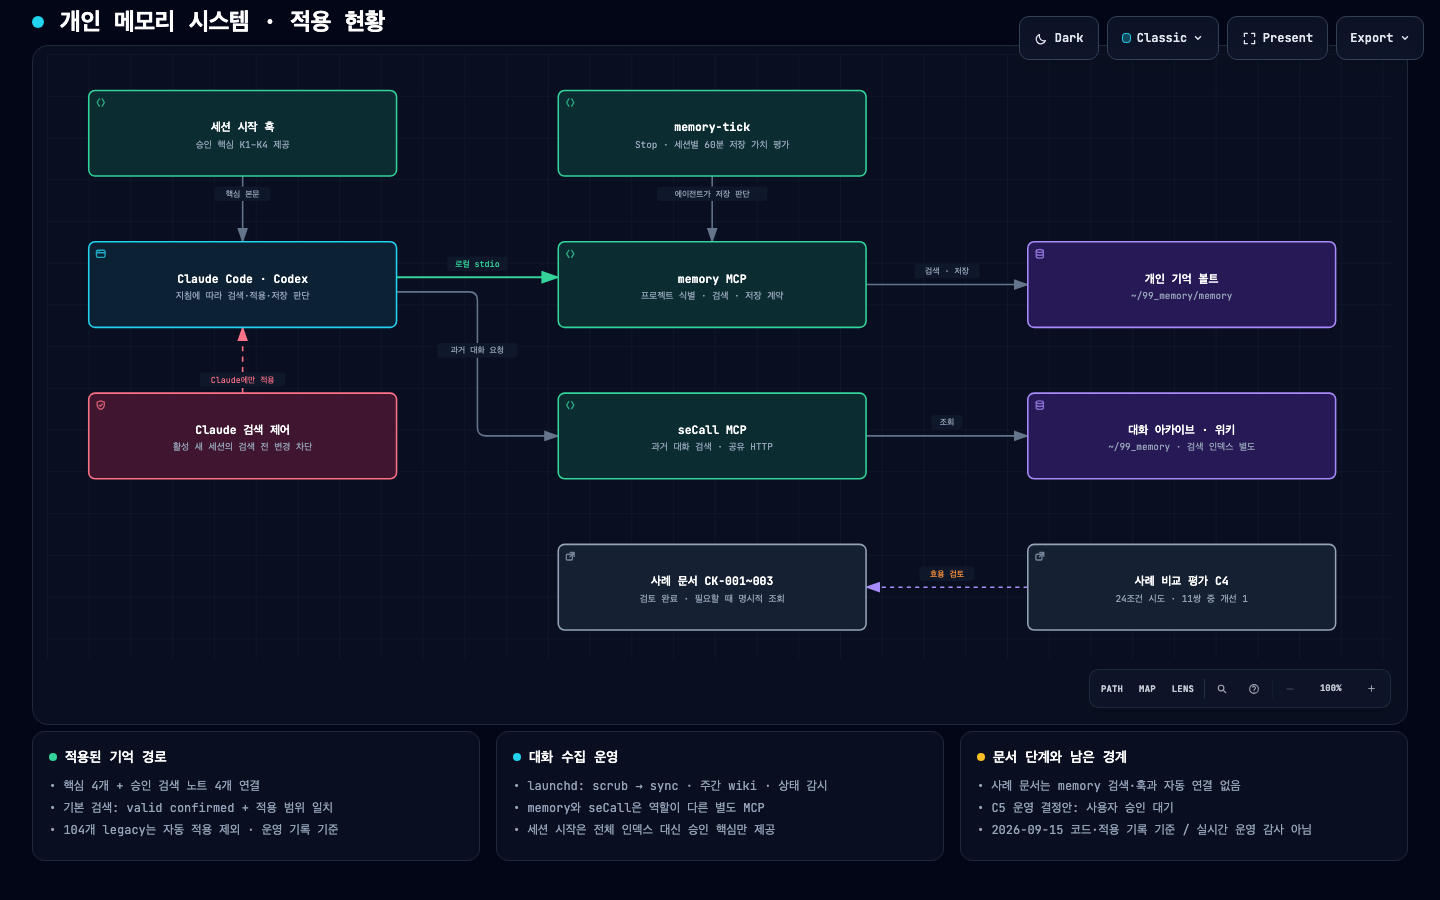
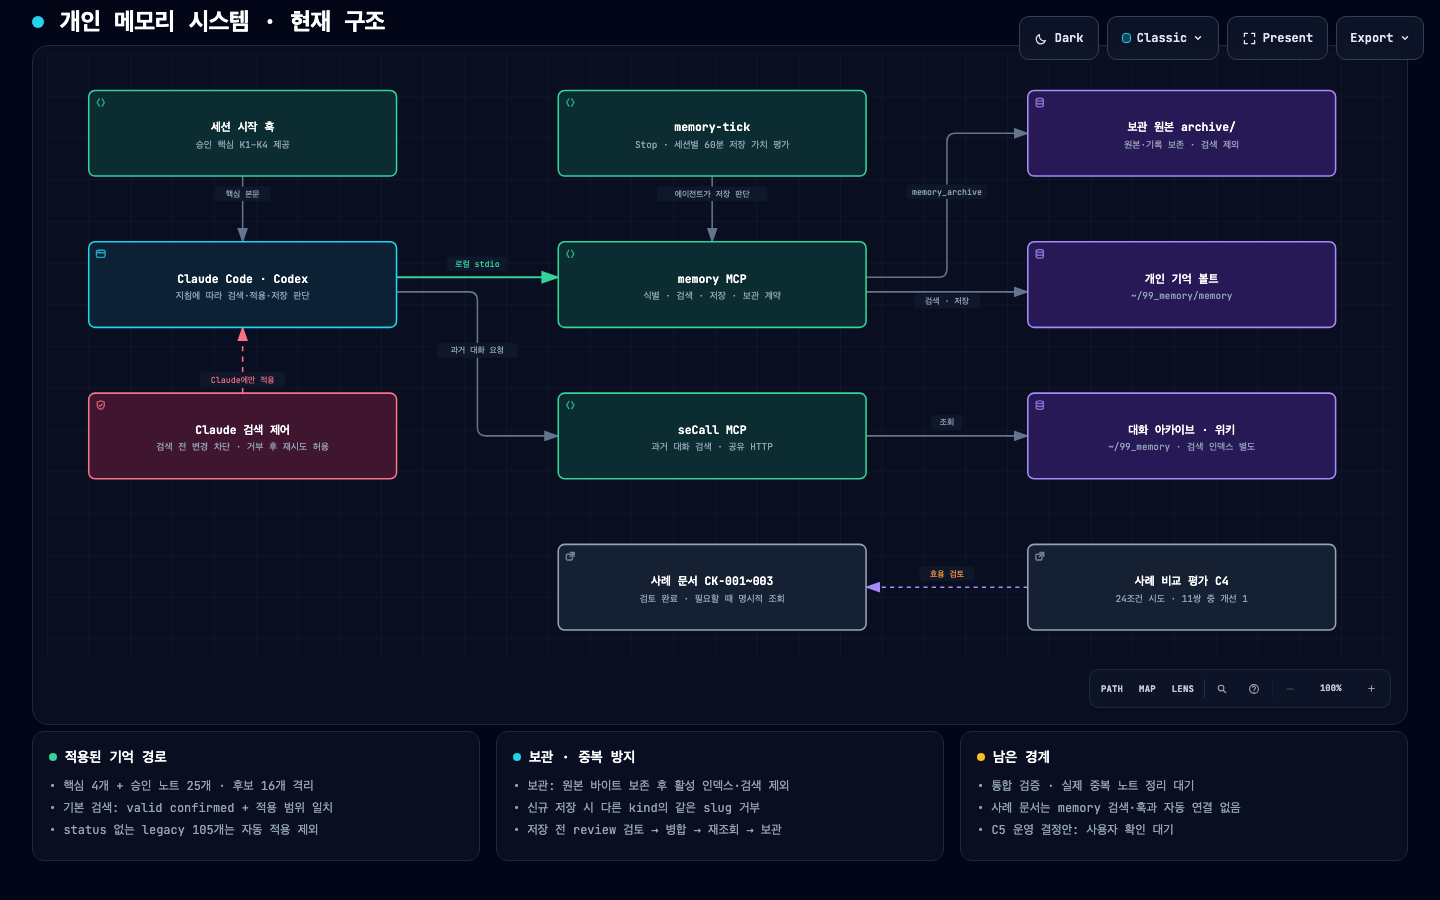
docs: 메모리 시스템 구성도를 보관·중복 방지 반영해 갱신
archive/ 노드와 memory_archive 연결, 검색 훅 복구, T1–T3 카드, 2026-09-28 볼트
집계(146개: confirmed 25·candidate 16·legacy 105)를 반영하고 검증 영수증을 갱신한다.

diff --git a/docs/diagrams/memory-system.html b/docs/diagrams/memory-system.html
@@ -4,7 +4,7 @@
   <meta charset="UTF-8">
   <meta name="viewport" content="width=device-width, initial-scale=1.0">
   <meta name="generator" content="archify 2.17.0-dev.1">
-  <title>개인 메모리 시스템 · 적용 현황 Diagram</title>
+  <title>개인 메모리 시스템 · 현재 구조 Diagram</title>
   <script>
     // Resolve the theme before first paint so light-preference users don't
     // see a dark flash. The toolbar script below re-applies with UI state.
@@ -4955,7 +4955,7 @@
            data-preset-badge-blueprint="BLUEPRINT / REV 01"
            data-preset-badge-editorial="EDITORIAL / FIELD NOTE">
         <div class="pulse-dot"></div>
-        <h1>개인 메모리 시스템 · 적용 현황</h1>
+        <h1>개인 메모리 시스템 · 현재 구조</h1>
       </div>
     </div>
 
@@ -5005,7 +5005,7 @@
     <div class="diagram-container" data-detail-level="read"
          data-preset-badge-editorial-plate="ARCHIFY / PLATE 04">
       <svg viewBox="0 0 1290 580" role="img" lang="en" aria-labelledby="archify-diagram-title archify-diagram-description" data-preset="classic" data-quality-profile="showcase">
-        <title id="archify-diagram-title">개인 메모리 시스템 · 적용 현황</title>
+        <title id="archify-diagram-title">개인 메모리 시스템 · 현재 구조</title>
         <desc id="archify-diagram-description">An architecture diagram generated by Archify.</desc>
         <!-- Definitions -->
         <defs>
@@ -5035,12 +5035,13 @@
         <!-- Connection paths (before components for correct z-order) -->
         <path data-edge-from="core" data-edge-to="agent" data-edge-label="핵심 본문" data-edge-key="0" data-composition-points="187.5,117;187.5,180" d="M 187.5 117 L 187.5 180" class="a-default" stroke-width="1.5" marker-end="url(#arrowhead)"/>
         <path data-edge-from="agent" data-edge-to="memory" data-edge-label="로컬 stdio" data-edge-key="1" data-composition-points="335,214;490,214" d="M 335 214 L 490 214" class="a-emphasis" stroke-width="1.8" marker-end="url(#arrowhead-emphasis)"/>
-        <path data-edge-from="memory" data-edge-to="vault" data-edge-label="검색 · 저장" data-edge-key="2" data-composition-points="785,221;940,221" d="M 785 221 L 940 221" class="a-default" stroke-width="1.5" marker-end="url(#arrowhead)"/>
-        <path data-edge-from="tick" data-edge-to="memory" data-edge-label="에이전트가 저장 판단" data-edge-key="3" data-composition-points="637.5,117;637.5,180" d="M 637.5 117 L 637.5 180" class="a-default" stroke-width="1.5" marker-end="url(#arrowhead)"/>
-        <path data-edge-from="guard" data-edge-to="agent" data-edge-label="Claude에만 적용" data-edge-key="4" data-composition-points="187.5,325;187.5,262" d="M 187.5 325 L 187.5 262" class="a-security" stroke-width="1.5" marker-end="url(#arrowhead-security)"/>
-        <path data-edge-from="agent" data-edge-to="secall" data-edge-label="과거 대화 요청" data-edge-key="5" data-composition-points="335,228;412.5,228;412.5,366;490,366" d="M 335 228 L 404.5 228 Q 412.5 228 412.5 236 L 412.5 358 Q 412.5 366 420.5 366 L 490 366" class="a-default" stroke-width="1.5" marker-end="url(#arrowhead)"/>
-        <path data-edge-from="secall" data-edge-to="history" data-edge-label="조회" data-edge-key="6" data-composition-points="785,366;940,366" d="M 785 366 L 940 366" class="a-default" stroke-width="1.5" marker-end="url(#arrowhead)"/>
-        <path data-edge-from="evaluation" data-edge-to="cases" data-edge-label="효용 검토" data-edge-key="7" data-composition-points="940,511;785,511" d="M 940 511 L 785 511" class="a-dashed" stroke-width="1.5" marker-end="url(#arrowhead-dashed)"/>
+        <path data-edge-from="memory" data-edge-to="vault" data-edge-label="검색 · 저장" data-edge-key="2" data-composition-points="785,228;940,228" d="M 785 228 L 940 228" class="a-default" stroke-width="1.5" marker-end="url(#arrowhead)"/>
+        <path data-edge-from="memory" data-edge-to="archive" data-edge-label="memory_archive" data-edge-key="3" data-composition-points="785,214;862.5,214;862.5,76;940,76" d="M 785 214 L 854.5 214 Q 862.5 214 862.5 206 L 862.5 84 Q 862.5 76 870.5 76 L 940 76" class="a-default" stroke-width="1.5" marker-end="url(#arrowhead)"/>
+        <path data-edge-from="tick" data-edge-to="memory" data-edge-label="에이전트가 저장 판단" data-edge-key="4" data-composition-points="637.5,117;637.5,180" d="M 637.5 117 L 637.5 180" class="a-default" stroke-width="1.5" marker-end="url(#arrowhead)"/>
+        <path data-edge-from="guard" data-edge-to="agent" data-edge-label="Claude에만 적용" data-edge-key="5" data-composition-points="187.5,325;187.5,262" d="M 187.5 325 L 187.5 262" class="a-security" stroke-width="1.5" marker-end="url(#arrowhead-security)"/>
+        <path data-edge-from="agent" data-edge-to="secall" data-edge-label="과거 대화 요청" data-edge-key="6" data-composition-points="335,228;412.5,228;412.5,366;490,366" d="M 335 228 L 404.5 228 Q 412.5 228 412.5 236 L 412.5 358 Q 412.5 366 420.5 366 L 490 366" class="a-default" stroke-width="1.5" marker-end="url(#arrowhead)"/>
+        <path data-edge-from="secall" data-edge-to="history" data-edge-label="조회" data-edge-key="7" data-composition-points="785,366;940,366" d="M 785 366 L 940 366" class="a-default" stroke-width="1.5" marker-end="url(#arrowhead)"/>
+        <path data-edge-from="evaluation" data-edge-to="cases" data-edge-label="효용 검토" data-edge-key="8" data-composition-points="940,511;785,511" d="M 940 511 L 785 511" class="a-dashed" stroke-width="1.5" marker-end="url(#arrowhead-dashed)"/>
 
         <!-- Components -->
         <g id="node-core" data-node-id="core" data-node-label="세션 시작 훅" tabindex="0" role="button" aria-label="Focus 세션 시작 훅, 승인 핵심 K1–K4 제공, Architecture component" aria-pressed="false" data-node-kind="backend" data-node-sublabel="승인 핵심 K1–K4 제공" data-node-context="Architecture component">
@@ -5068,8 +5069,8 @@
         <text data-detail="context" x="187.5" y="235" class="t-muted" font-size="9" text-anchor="middle">지침에 따라 검색·적용·저장 판단</text>
         </g>
 
-        <g id="node-guard" data-node-id="guard" data-node-label="Claude 검색 제어" tabindex="0" role="button" aria-label="Focus Claude 검색 제어, 활성 새 세션의 검색 전 변경 차단, Architecture component" aria-pressed="false" data-node-kind="security" data-node-sublabel="활성 새 세션의 검색 전 변경 차단" data-node-context="Architecture component">
-          <title>Claude 검색 제어 · 활성 새 세션의 검색 전 변경 차단 · Architecture component</title>
+        <g id="node-guard" data-node-id="guard" data-node-label="Claude 검색 제어" tabindex="0" role="button" aria-label="Focus Claude 검색 제어, 검색 전 변경 차단 · 거부 후 재시도 허용, Architecture component" aria-pressed="false" data-node-kind="security" data-node-sublabel="검색 전 변경 차단 · 거부 후 재시도 허용" data-node-context="Architecture component">
+          <title>Claude 검색 제어 · 검색 전 변경 차단 · 거부 후 재시도 허용 · Architecture component</title>
           <rect x="40" y="325" width="295" height="82" rx="6" class="c-mask"/>
           <rect x="40" y="325" width="295" height="82" rx="6" class="c-security" stroke-width="1.5"/>
           <g aria-hidden="true" data-semantic-sigil="security" class="semantic-sigil s-security" transform="translate(46 331) scale(0.6875)">
@@ -5077,7 +5078,7 @@
             <path d="m5.8 8 1.5 1.5 3-3"/>
           </g>
           <text data-node-label="" data-detail-anchor="" x="187.5" y="364" class="t-primary" font-size="11" font-weight="600" text-anchor="middle">Claude 검색 제어</text>
-        <text data-detail="context" x="187.5" y="380" class="t-muted" font-size="9" text-anchor="middle">활성 새 세션의 검색 전 변경 차단</text>
+        <text data-detail="context" x="187.5" y="380" class="t-muted" font-size="9" text-anchor="middle">검색 전 변경 차단 · 거부 후 재시도 허용</text>
         </g>
 
         <g id="node-tick" data-node-id="tick" data-node-label="memory-tick" tabindex="0" role="button" aria-label="Focus memory-tick, Stop · 세션별 60분 저장 가치 평가, Architecture component" aria-pressed="false" data-node-kind="backend" data-node-sublabel="Stop · 세션별 60분 저장 가치 평가" data-node-context="Architecture component">
@@ -5091,15 +5092,15 @@
         <text data-detail="context" x="637.5" y="90" class="t-muted" font-size="9" text-anchor="middle">Stop · 세션별 60분 저장 가치 평가</text>
         </g>
 
-        <g id="node-memory" data-node-id="memory" data-node-label="memory MCP" tabindex="0" role="button" aria-label="Focus memory MCP, 프로젝트 식별 · 검색 · 저장 계약, Architecture component" aria-pressed="false" data-node-kind="backend" data-node-sublabel="프로젝트 식별 · 검색 · 저장 계약" data-node-context="Architecture component">
-          <title>memory MCP · 프로젝트 식별 · 검색 · 저장 계약 · Architecture component</title>
+        <g id="node-memory" data-node-id="memory" data-node-label="memory MCP" tabindex="0" role="button" aria-label="Focus memory MCP, 식별 · 검색 · 저장 · 보관 계약, Architecture component" aria-pressed="false" data-node-kind="backend" data-node-sublabel="식별 · 검색 · 저장 · 보관 계약" data-node-context="Architecture component">
+          <title>memory MCP · 식별 · 검색 · 저장 · 보관 계약 · Architecture component</title>
           <rect x="490" y="180" width="295" height="82" rx="6" class="c-mask"/>
           <rect x="490" y="180" width="295" height="82" rx="6" class="c-backend" stroke-width="1.5"/>
           <g aria-hidden="true" data-semantic-sigil="backend" class="semantic-sigil s-backend" transform="translate(496 186) scale(0.6875)">
             <path d="M6 3 3 8l3 5M10 3l3 5-3 5"/>
           </g>
           <text data-node-label="" data-detail-anchor="" x="637.5" y="219" class="t-primary" font-size="11" font-weight="600" text-anchor="middle">memory MCP</text>
-        <text data-detail="context" x="637.5" y="235" class="t-muted" font-size="9" text-anchor="middle">프로젝트 식별 · 검색 · 저장 계약</text>
+        <text data-detail="context" x="637.5" y="235" class="t-muted" font-size="9" text-anchor="middle">식별 · 검색 · 저장 · 보관 계약</text>
         </g>
 
         <g id="node-vault" data-node-id="vault" data-node-label="개인 기억 볼트" tabindex="0" role="button" aria-label="Focus 개인 기억 볼트, ~/99_memory/memory, Architecture component" aria-pressed="false" data-node-kind="database" data-node-sublabel="~/99_memory/memory" data-node-context="Architecture component">
@@ -5112,6 +5113,18 @@
           </g>
           <text data-node-label="" data-detail-anchor="" x="1087.5" y="219" class="t-primary" font-size="11" font-weight="600" text-anchor="middle">개인 기억 볼트</text>
         <text data-detail="context" x="1087.5" y="235" class="t-muted" font-size="9" text-anchor="middle">~/99_memory/memory</text>
+        </g>
+
+        <g id="node-archive" data-node-id="archive" data-node-label="보관 원본 archive/" tabindex="0" role="button" aria-label="Focus 보관 원본 archive/, 원본·기록 보존 · 검색 제외, Architecture component" aria-pressed="false" data-node-kind="database" data-node-sublabel="원본·기록 보존 · 검색 제외" data-node-context="Architecture component">
+          <title>보관 원본 archive/ · 원본·기록 보존 · 검색 제외 · Architecture component</title>
+          <rect x="940" y="35" width="295" height="82" rx="6" class="c-mask"/>
+          <rect x="940" y="35" width="295" height="82" rx="6" class="c-database" stroke-width="1.5"/>
+          <g aria-hidden="true" data-semantic-sigil="database" class="semantic-sigil s-database" transform="translate(946 41) scale(0.6875)">
+            <ellipse cx="8" cy="4" rx="5" ry="2"/>
+            <path d="M3 4v8c0 1.1 2.2 2 5 2s5-.9 5-2V4M3 8c0 1.1 2.2 2 5 2s5-.9 5-2"/>
+          </g>
+          <text data-node-label="" data-detail-anchor="" x="1087.5" y="74" class="t-primary" font-size="11" font-weight="600" text-anchor="middle">보관 원본 archive/</text>
+        <text data-detail="context" x="1087.5" y="90" class="t-muted" font-size="9" text-anchor="middle">원본·기록 보존 · 검색 제외</text>
         </g>
 
         <g id="node-secall" data-node-id="secall" data-node-label="seCall MCP" tabindex="0" role="button" aria-label="Focus seCall MCP, 과거 대화 검색 · 공유 HTTP, Architecture component" aria-pressed="false" data-node-kind="backend" data-node-sublabel="과거 대화 검색 · 공유 HTTP" data-node-context="Architecture component">
@@ -5171,26 +5184,30 @@
           <text x="412.5" y="204" class="t-backend" font-size="8" text-anchor="middle">로컬 stdio</text>
         </g>
         <g data-detail="context" data-edge-from="memory" data-edge-to="vault" data-edge-label="검색 · 저장" data-edge-key="2">
-          <rect x="831.1" y="201" width="62.8" height="14" rx="3" class="c-mask"/>
-          <text x="862.5" y="211" class="t-muted" font-size="8" text-anchor="middle">검색 · 저장</text>
+          <rect x="831.1" y="230" width="62.8" height="14" rx="3" class="c-mask"/>
+          <text x="862.5" y="240" class="t-muted" font-size="8" text-anchor="middle">검색 · 저장</text>
         </g>
-        <g data-detail="context" data-edge-from="tick" data-edge-to="memory" data-edge-label="에이전트가 저장 판단" data-edge-key="3">
+        <g data-detail="context" data-edge-from="memory" data-edge-to="archive" data-edge-label="memory_archive" data-edge-key="3">
+          <rect x="823.9" y="125" width="77.2" height="14" rx="3" class="c-mask"/>
+          <text x="862.5" y="135" class="t-muted" font-size="8" text-anchor="middle">memory_archive</text>
+        </g>
+        <g data-detail="context" data-edge-from="tick" data-edge-to="memory" data-edge-label="에이전트가 저장 판단" data-edge-key="4">
           <rect x="584.5" y="127" width="106" height="14" rx="3" class="c-mask"/>
           <text x="637.5" y="137" class="t-muted" font-size="8" text-anchor="middle">에이전트가 저장 판단</text>
         </g>
-        <g data-detail="context" data-edge-from="guard" data-edge-to="agent" data-edge-label="Claude에만 적용" data-edge-key="4">
+        <g data-detail="context" data-edge-from="guard" data-edge-to="agent" data-edge-label="Claude에만 적용" data-edge-key="5">
           <rect x="146.5" y="305" width="82" height="14" rx="3" class="c-mask"/>
           <text x="187.5" y="315" class="t-security" font-size="8" text-anchor="middle">Claude에만 적용</text>
         </g>
-        <g data-detail="context" data-edge-from="agent" data-edge-to="secall" data-edge-label="과거 대화 요청" data-edge-key="5">
+        <g data-detail="context" data-edge-from="agent" data-edge-to="secall" data-edge-label="과거 대화 요청" data-edge-key="6">
           <rect x="373.9" y="277" width="77.2" height="14" rx="3" class="c-mask"/>
           <text x="412.5" y="287" class="t-muted" font-size="8" text-anchor="middle">과거 대화 요청</text>
         </g>
-        <g data-detail="context" data-edge-from="secall" data-edge-to="history" data-edge-label="조회" data-edge-key="6">
+        <g data-detail="context" data-edge-from="secall" data-edge-to="history" data-edge-label="조회" data-edge-key="7">
           <rect x="847.5" y="346" width="30" height="14" rx="3" class="c-mask"/>
           <text x="862.5" y="356" class="t-muted" font-size="8" text-anchor="middle">조회</text>
         </g>
-        <g data-detail="context" data-edge-from="evaluation" data-edge-to="cases" data-edge-label="효용 검토" data-edge-key="7">
+        <g data-detail="context" data-edge-from="evaluation" data-edge-to="cases" data-edge-label="효용 검토" data-edge-key="8">
           <rect x="835.9" y="491" width="53.199999999999996" height="14" rx="3" class="c-mask"/>
           <text x="862.5" y="501" class="t-messagebus" font-size="8" text-anchor="middle">효용 검토</text>
         </g>
@@ -5392,33 +5409,33 @@
           <h3>적용된 기억 경로</h3>
         </div>
         <ul>
-          <li>&bull; 핵심 4개 + 승인 검색 노트 4개 연결</li>
+          <li>&bull; 핵심 4개 + 승인 노트 25개 · 후보 16개 격리</li>
           <li>&bull; 기본 검색: valid confirmed + 적용 범위 일치</li>
-          <li>&bull; 104개 legacy는 자동 적용 제외 · 운영 기록 기준</li>
+          <li>&bull; status 없는 legacy 105개는 자동 적용 제외</li>
         </ul>
       </div>
 
       <div class="card">
         <div class="card-header">
           <div class="card-dot cyan"></div>
-          <h3>대화 수집 운영</h3>
+          <h3>보관 · 중복 방지</h3>
         </div>
         <ul>
-          <li>&bull; launchd: scrub → sync · 주간 wiki · 상태 감시</li>
-          <li>&bull; memory와 seCall은 역할이 다른 별도 MCP</li>
-          <li>&bull; 세션 시작은 전체 인덱스 대신 승인 핵심만 제공</li>
+          <li>&bull; 보관: 원본 바이트 보존 후 활성 인덱스·검색 제외</li>
+          <li>&bull; 신규 저장 시 다른 kind의 같은 slug 거부</li>
+          <li>&bull; 저장 전 review 검토 → 병합 → 재조회 → 보관</li>
         </ul>
       </div>
 
       <div class="card">
         <div class="card-header">
           <div class="card-dot amber"></div>
-          <h3>문서 단계와 남은 경계</h3>
+          <h3>남은 경계</h3>
         </div>
         <ul>
+          <li>&bull; 통합 검증 · 실제 중복 노트 정리 대기</li>
           <li>&bull; 사례 문서는 memory 검색·훅과 자동 연결 없음</li>
-          <li>&bull; C5 운영 결정안: 사용자 승인 대기</li>
-          <li>&bull; 2026-09-15 코드·적용 기록 기준 / 실시간 운영 감사 아님</li>
+          <li>&bull; C5 운영 결정안: 사용자 확인 대기</li>
         </ul>
       </div>
     </div>
